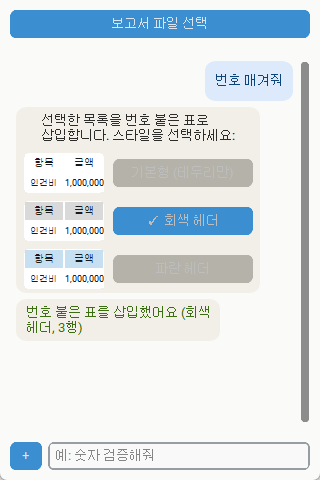
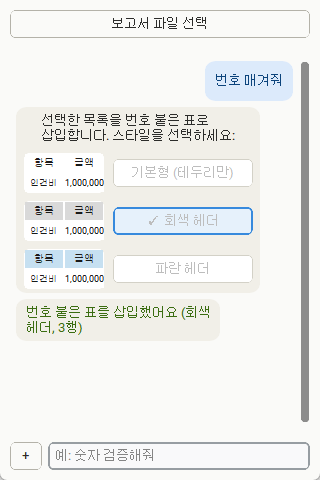
F12 2단계: 버튼 배색을 흰 배경+연파랑 아웃라인으로 통일
- report_button/attach_button: 상시 떠 있는 보조 버튼이라 CTk 기본 진한
  파란 채우기 대신 테두리만 있는 연한 버튼으로(스타일 선택 버튼과의 강조
  경쟁 방지)
- 표/번호서식 스타일 선택 버튼(_PICKER_BUTTON*): 흰 배경 + 연파랑 글씨/테두리로
  통일, 고른 버튼은 연파랑 배경 채움+체크마크, 나머지는 회색으로 낮춤
- 스크린샷 재검증(선택 전/후), self-test 회귀 없음

diff --git a/chat_assistant.py b/chat_assistant.py
@@ -26,6 +26,24 @@ _BUBBLE_STYLE = {
 }
 _WINDOW_BG = "#FAFAF8"
 
+# (2026-09-03, 네 번째 디자인 피드백) "하얀 바탕에 글씨는 연파랑" 요청 반영 —
+# 스타일 선택 버튼(표/번호서식)을 흰 배경 + 파란 글씨의 아웃라인 버튼으로
+# 바꾼다. CTk 기본 테마 버튼(흰 글씨 + 진한 파란 채우기)은 이 카드의 흰/베이지
+# 배경과 대비가 너무 강해 튀어 보인다는 지적을 받아, report_button/attach_button과
+# 같은 계열(연한 아웃라인)로 통일했다.
+_PICKER_BUTTON = {
+    "fg_color": "#FFFFFF", "text_color": "#0C447C", "border_width": 1,
+    "border_color": "#B5D4F4", "hover_color": "#E6F1FB",
+}
+_PICKER_BUTTON_CHOSEN = {
+    "fg_color": "#E6F1FB", "text_color": "#0C447C", "border_width": 2,
+    "border_color": "#378ADD", "hover_color": "#E6F1FB",
+}
+_PICKER_BUTTON_UNCHOSEN = {
+    "fg_color": "#FFFFFF", "text_color": "#B4B2A9", "border_width": 1,
+    "border_color": "#D3D1C7",
+}
+
 _TOOLS = [
     {
         "type": "function",
@@ -191,7 +209,16 @@ class ChatAssistant(ctk.CTk):
         self._busy = False
         self._pending_clarification = None  # str | None — 되묻기 대상이었던 원문
 
-        self.report_button = ctk.CTkButton(self, text="보고서 파일 선택", command=self._choose_report)
+        # (2026-09-03, 세 번째 디자인 피드백) 이 버튼은 항상 떠 있는 상시
+        # UI라, 채팅 안의 스타일 선택 버튼(그 순간 골라야 하는 것)과 같은
+        # 진한 파란색을 쓰면 오히려 이 버튼이 더 튀어 보인다는 지적을 받아
+        # 테두리만 있는 연한 버튼으로 바꿨다 — "강조색은 한 화면에 하나만"
+        # 원칙(진짜 선택해야 하는 스타일 버튼 쪽에 몰아줌).
+        self.report_button = ctk.CTkButton(
+            self, text="보고서 파일 선택", command=self._choose_report,
+            fg_color="transparent", border_width=1, border_color="#B4B2A9",
+            text_color="#2C2C2A", hover_color="#F1EFE8",
+        )
         self.report_button.pack(pady=(10, 4), padx=10, fill="x")
 
         # (2026-09-03, 실사용 디자인 피드백) CTkTextbox 한 줄짜리 로그 대신
@@ -203,7 +230,13 @@ class ChatAssistant(ctk.CTk):
         self.input_row = ctk.CTkFrame(self, fg_color="transparent")
         self.input_row.pack(pady=(0, 10), padx=10, fill="x")
 
-        self.attach_button = ctk.CTkButton(self.input_row, text="+", width=32, command=self._attach_source)
+        # report_button과 같은 이유로 연하게 — 입력창 옆의 보조 버튼일 뿐이라
+        # 채팅 속 스타일 선택 버튼보다 튀면 안 된다.
+        self.attach_button = ctk.CTkButton(
+            self.input_row, text="+", width=32, command=self._attach_source,
+            fg_color="transparent", border_width=1, border_color="#B4B2A9",
+            text_color="#2C2C2A", hover_color="#F1EFE8",
+        )
         self.attach_button.pack(side="left", padx=(0, 6))
 
         self.input_box = ctk.CTkEntry(self.input_row, placeholder_text="예: 숫자 검증해줘")
@@ -335,15 +368,13 @@ class ChatAssistant(ctk.CTk):
         buttons = []
 
         def handle_click(style_key, button):
-            # (스크린샷으로 직접 확인) border_width만으로는 버튼 자체가 이미
-            # 파란색이라 테두리 강조가 잘 안 보였다 — 고른 버튼엔 체크마크를
-            # 붙이고, 고르지 않은 나머지는 회색으로 눌러서 "이걸 골랐다"가
-            # 한눈에 보이도록 했다.
+            # 고른 버튼엔 체크마크 + 연파랑 배경 강조, 나머지는 흐린 회색으로
+            # 눌러서 "이걸 골랐다"가 한눈에 보이도록 했다(_PICKER_BUTTON_* 참고).
             for b in buttons:
                 if b is button:
-                    b.configure(text=f"✓ {b.cget('text')}")
+                    b.configure(text=f"✓ {b.cget('text')}", **_PICKER_BUTTON_CHOSEN)
                 else:
-                    b.configure(fg_color="#B4B2A9")
+                    b.configure(**_PICKER_BUTTON_UNCHOSEN)
                 b.configure(state="disabled")
             on_choose(style_key)
 
@@ -369,7 +400,7 @@ class ChatAssistant(ctk.CTk):
             for col, text in enumerate(["인건비", "1,000,000"]):
                 ctk.CTkLabel(preview, text=text, width=38, height=18, font=ctk.CTkFont(size=9), fg_color="#FFFFFF").grid(row=1, column=col, padx=1, pady=1)
 
-            button = ctk.CTkButton(row, text=style_info["label"], height=28)
+            button = ctk.CTkButton(row, text=style_info["label"], height=28, **_PICKER_BUTTON)
             button.configure(command=lambda k=style_key, b=button: handle_click(k, b))
             button.pack(side="left", fill="x", expand=True)
             buttons.append(button)
@@ -462,9 +493,9 @@ class ChatAssistant(ctk.CTk):
         def choose(style_key, button):
             for b in buttons:
                 if b is button:
-                    b.configure(text=f"✓ {b.cget('text')}")
+                    b.configure(text=f"✓ {b.cget('text')}", **_PICKER_BUTTON_CHOSEN)
                 else:
-                    b.configure(fg_color="#B4B2A9")
+                    b.configure(**_PICKER_BUTTON_UNCHOSEN)
                 b.configure(state="disabled")
             result = self._run_tool_safely(insert_numbering_prefix, self.report, style_key)
             if result is None:
@@ -476,7 +507,7 @@ class ChatAssistant(ctk.CTk):
 
         for style_key, style_info in NUMBERING_STYLES.items():
             example = f"{style_info['prefix']}예시 항목입니다"
-            button = ctk.CTkButton(card, text=example)
+            button = ctk.CTkButton(card, text=example, **_PICKER_BUTTON)
             button.configure(command=lambda k=style_key, b=button: choose(k, b))
             button.pack(pady=3, padx=8, fill="x")
             buttons.append(button)
